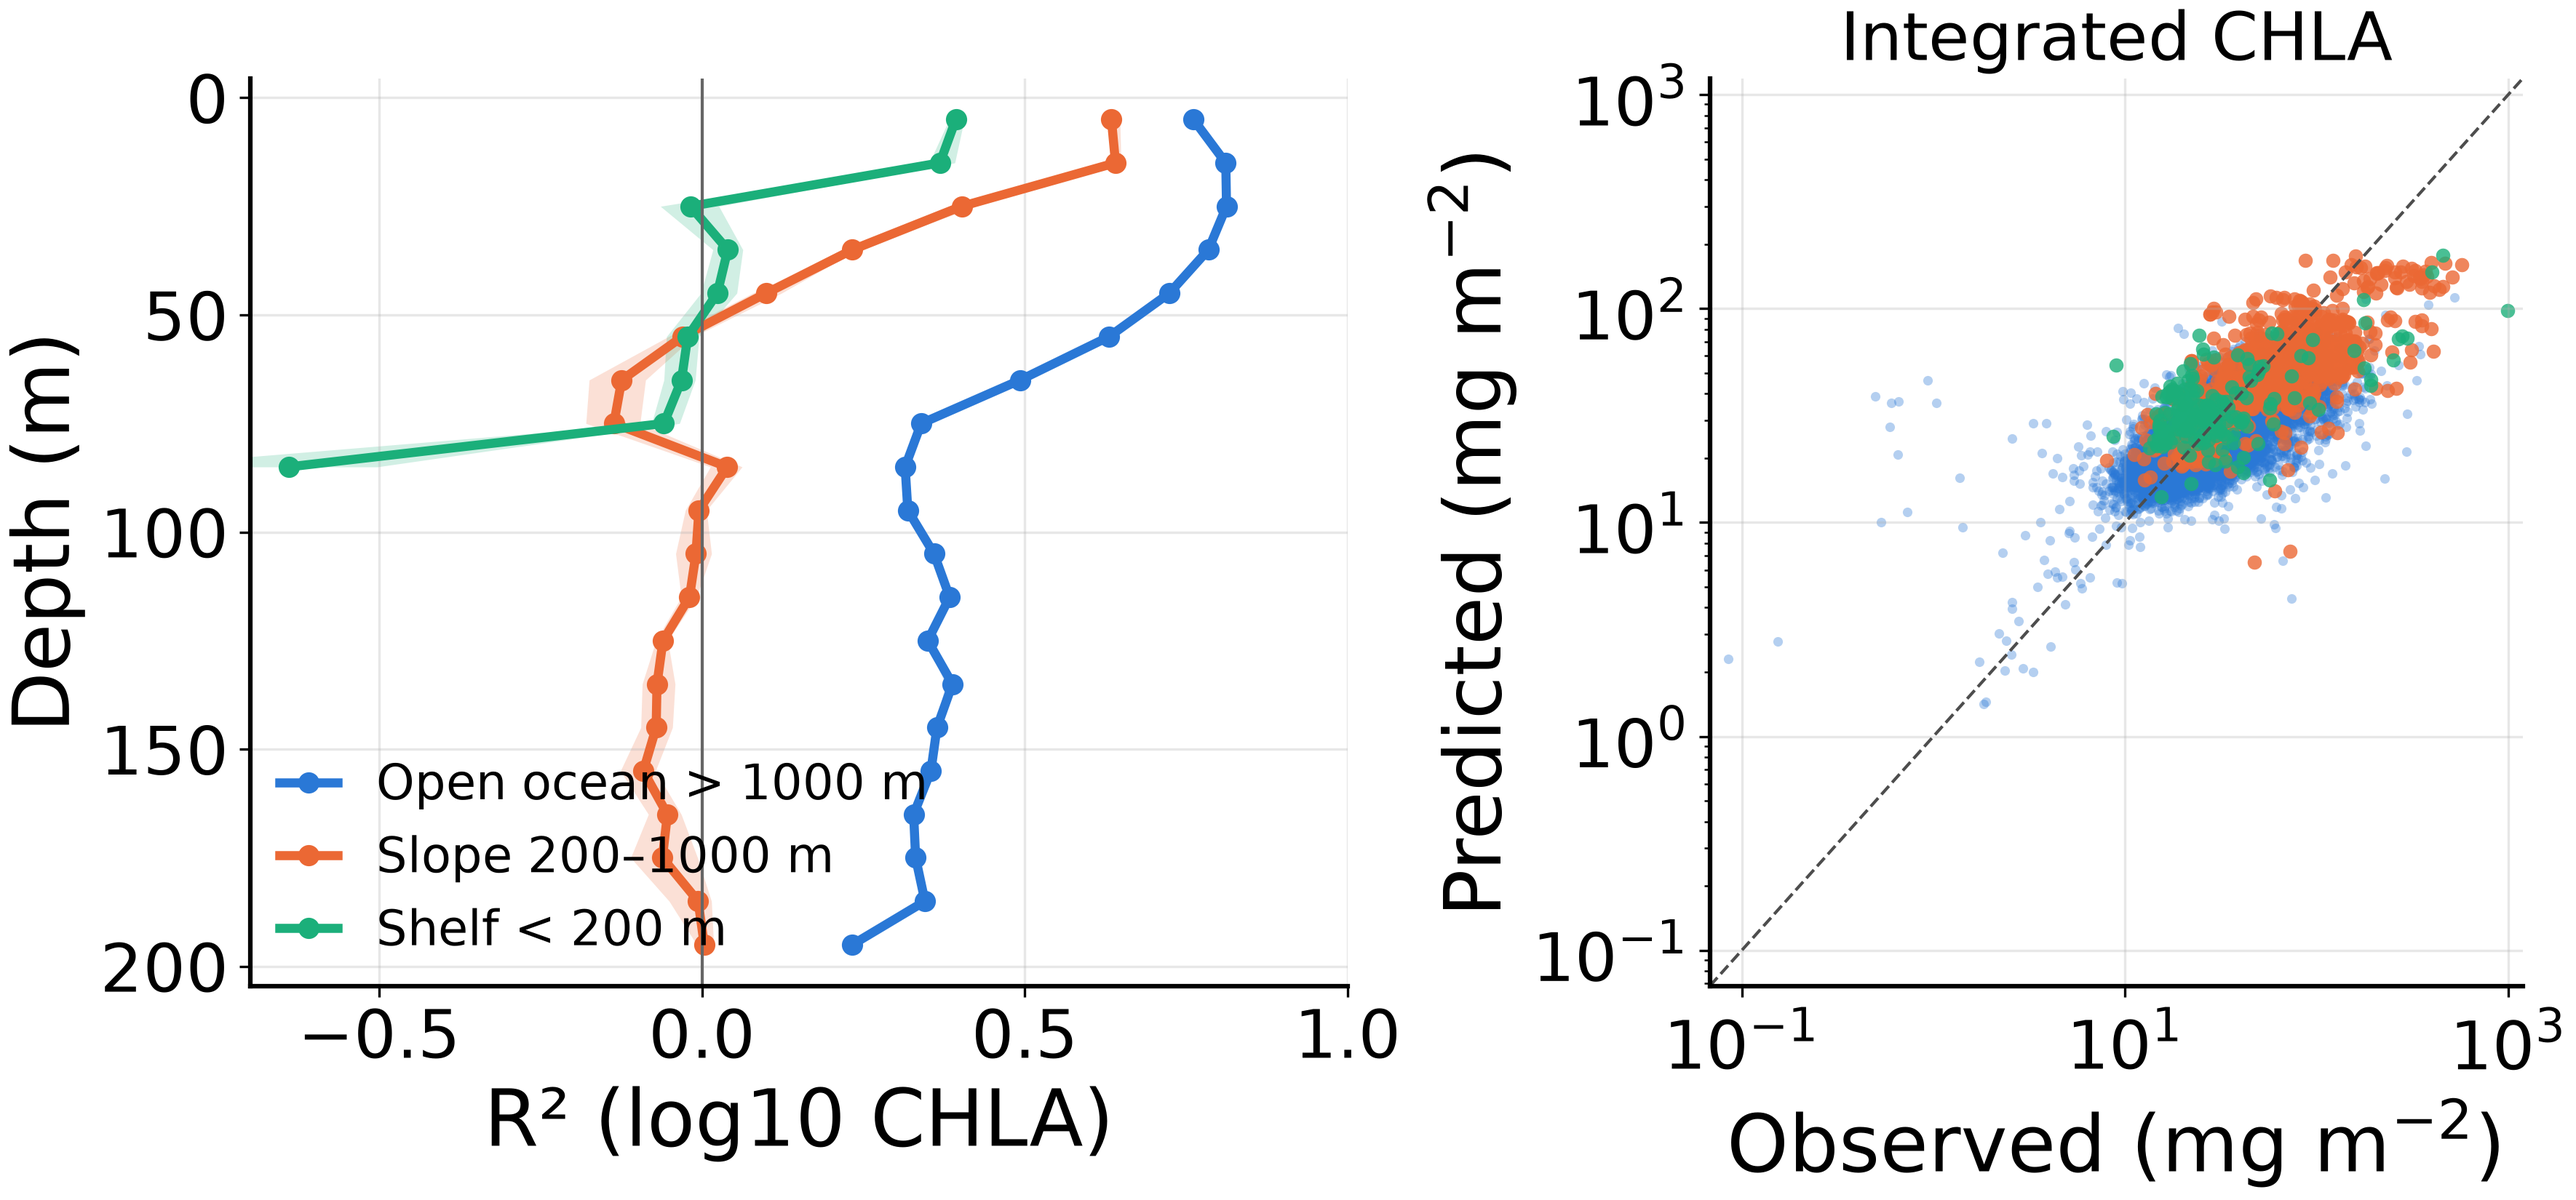
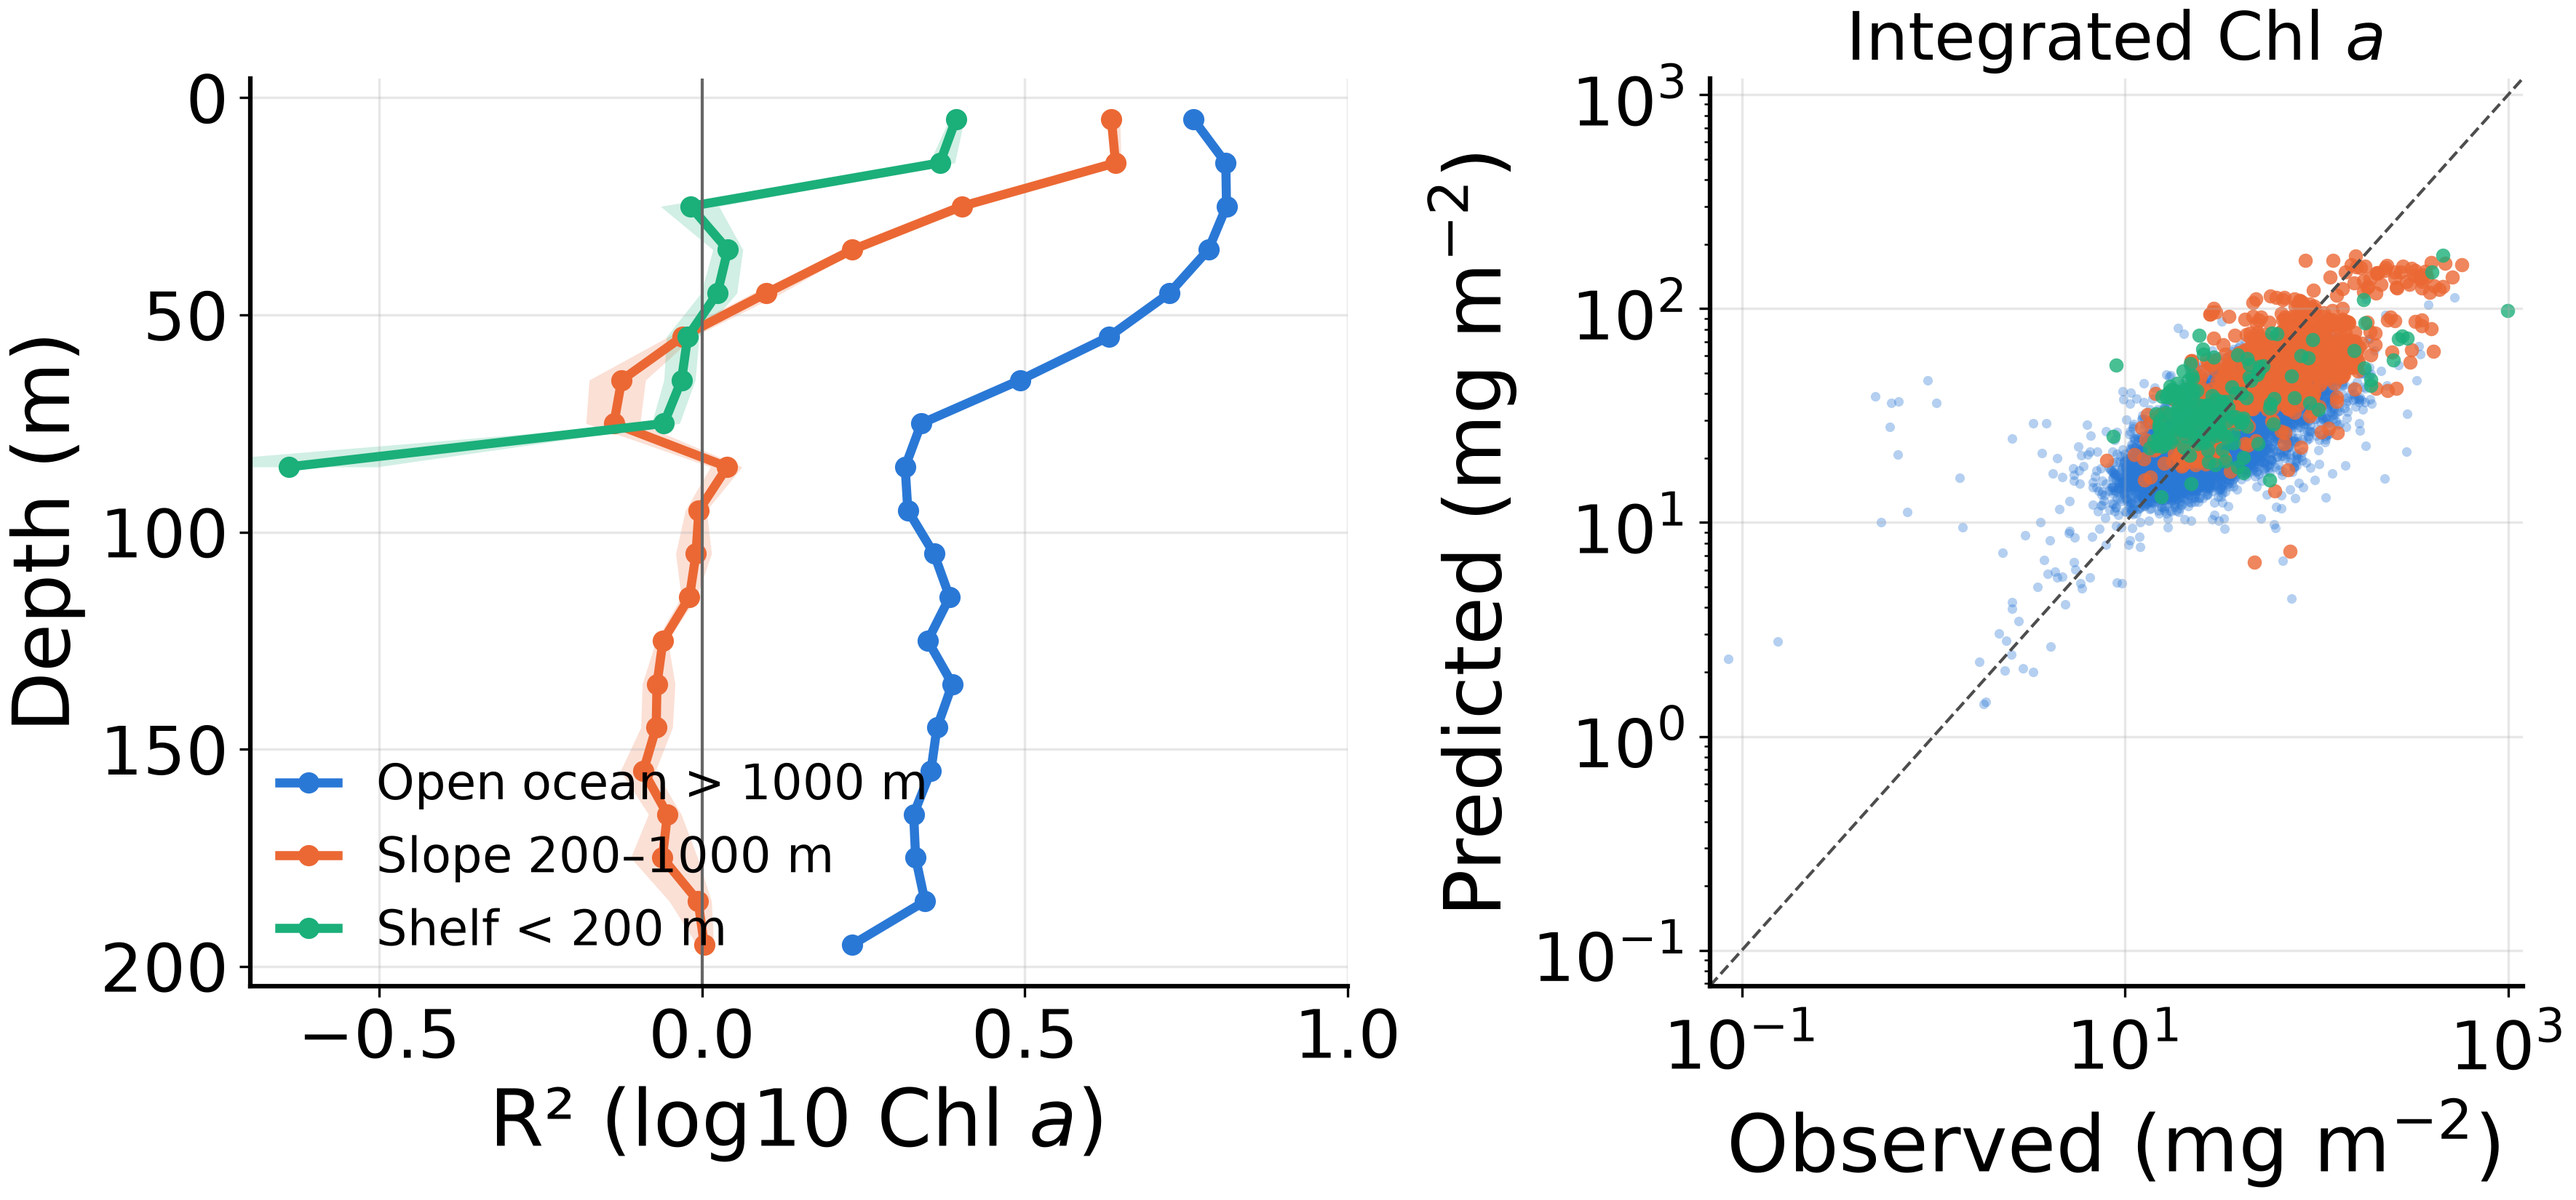
Poster text: Chl a naming, Rrs, integrated defined; VM script to 5 repeats
Eli's review of the Introduction, Data and Methods edits: Chl a defined and
used throughout (tables, block 2, figure axes); Data says the satellite data
are Rrs, counts are PACE matchups, 5 OOI locations; Methods lists the model
types tried instead of a footnote and defines integrated Chl a.

Changed region(s): [[0.1864, 0.8964, 0.435, 0.9582], [0.7147, 0.0, 0.9322, 0.0618]]

diff --git a/poster/scripts/fig_coastal_skill.py b/poster/scripts/fig_coastal_skill.py
@@ -69,7 +69,7 @@ def main():
     ax.axvline(0, color="0.4", lw=1)
     ax.set_xlim(-0.7, 1)
     ax.invert_yaxis()
-    ax.set_xlabel("R² (log10 CHLA)")
+    ax.set_xlabel("R² (log10 Chl $a$)")
     ax.set_ylabel("Depth (m)")
     ax.grid(alpha=0.3)
     ax.legend(loc="lower left", frameon=False, fontsize=16, borderaxespad=0.2, handlelength=1.2)
@@ -78,7 +78,7 @@ def main():
     bx.set(xscale="log", yscale="log", xlim=lims, ylim=lims)
     bx.set_xlabel("Observed (mg m$^{-2}$)")
     bx.set_ylabel("Predicted (mg m$^{-2}$)")
-    bx.set_title("Integrated CHLA", fontsize=22)
+    bx.set_title("Integrated Chl $a$", fontsize=22)
     bx.grid(alpha=0.3)
     fig.savefig(OUT, dpi=DPI)
     print(b.pivot(index="z", columns="depth_class", values="mean").round(2).to_string())

diff --git a/poster/scripts/fig_example_profiles.py b/poster/scripts/fig_example_profiles.py
@@ -70,7 +70,7 @@ def main():
         ax.tick_params(labelsize=18)
     axs[0].invert_yaxis()
     axs[0].set_ylabel("Depth (m)")
-    fig.supxlabel("CHLA (mg m$^{-3}$)", fontsize=22)
+    fig.supxlabel("Chl $a$ (mg m$^{-3}$)", fontsize=22)
     axs[0].legend(loc="lower right", frameon=False, fontsize=18)
     fig.savefig(OUT, dpi=DPI)
     print("profiles:", list(picked))
